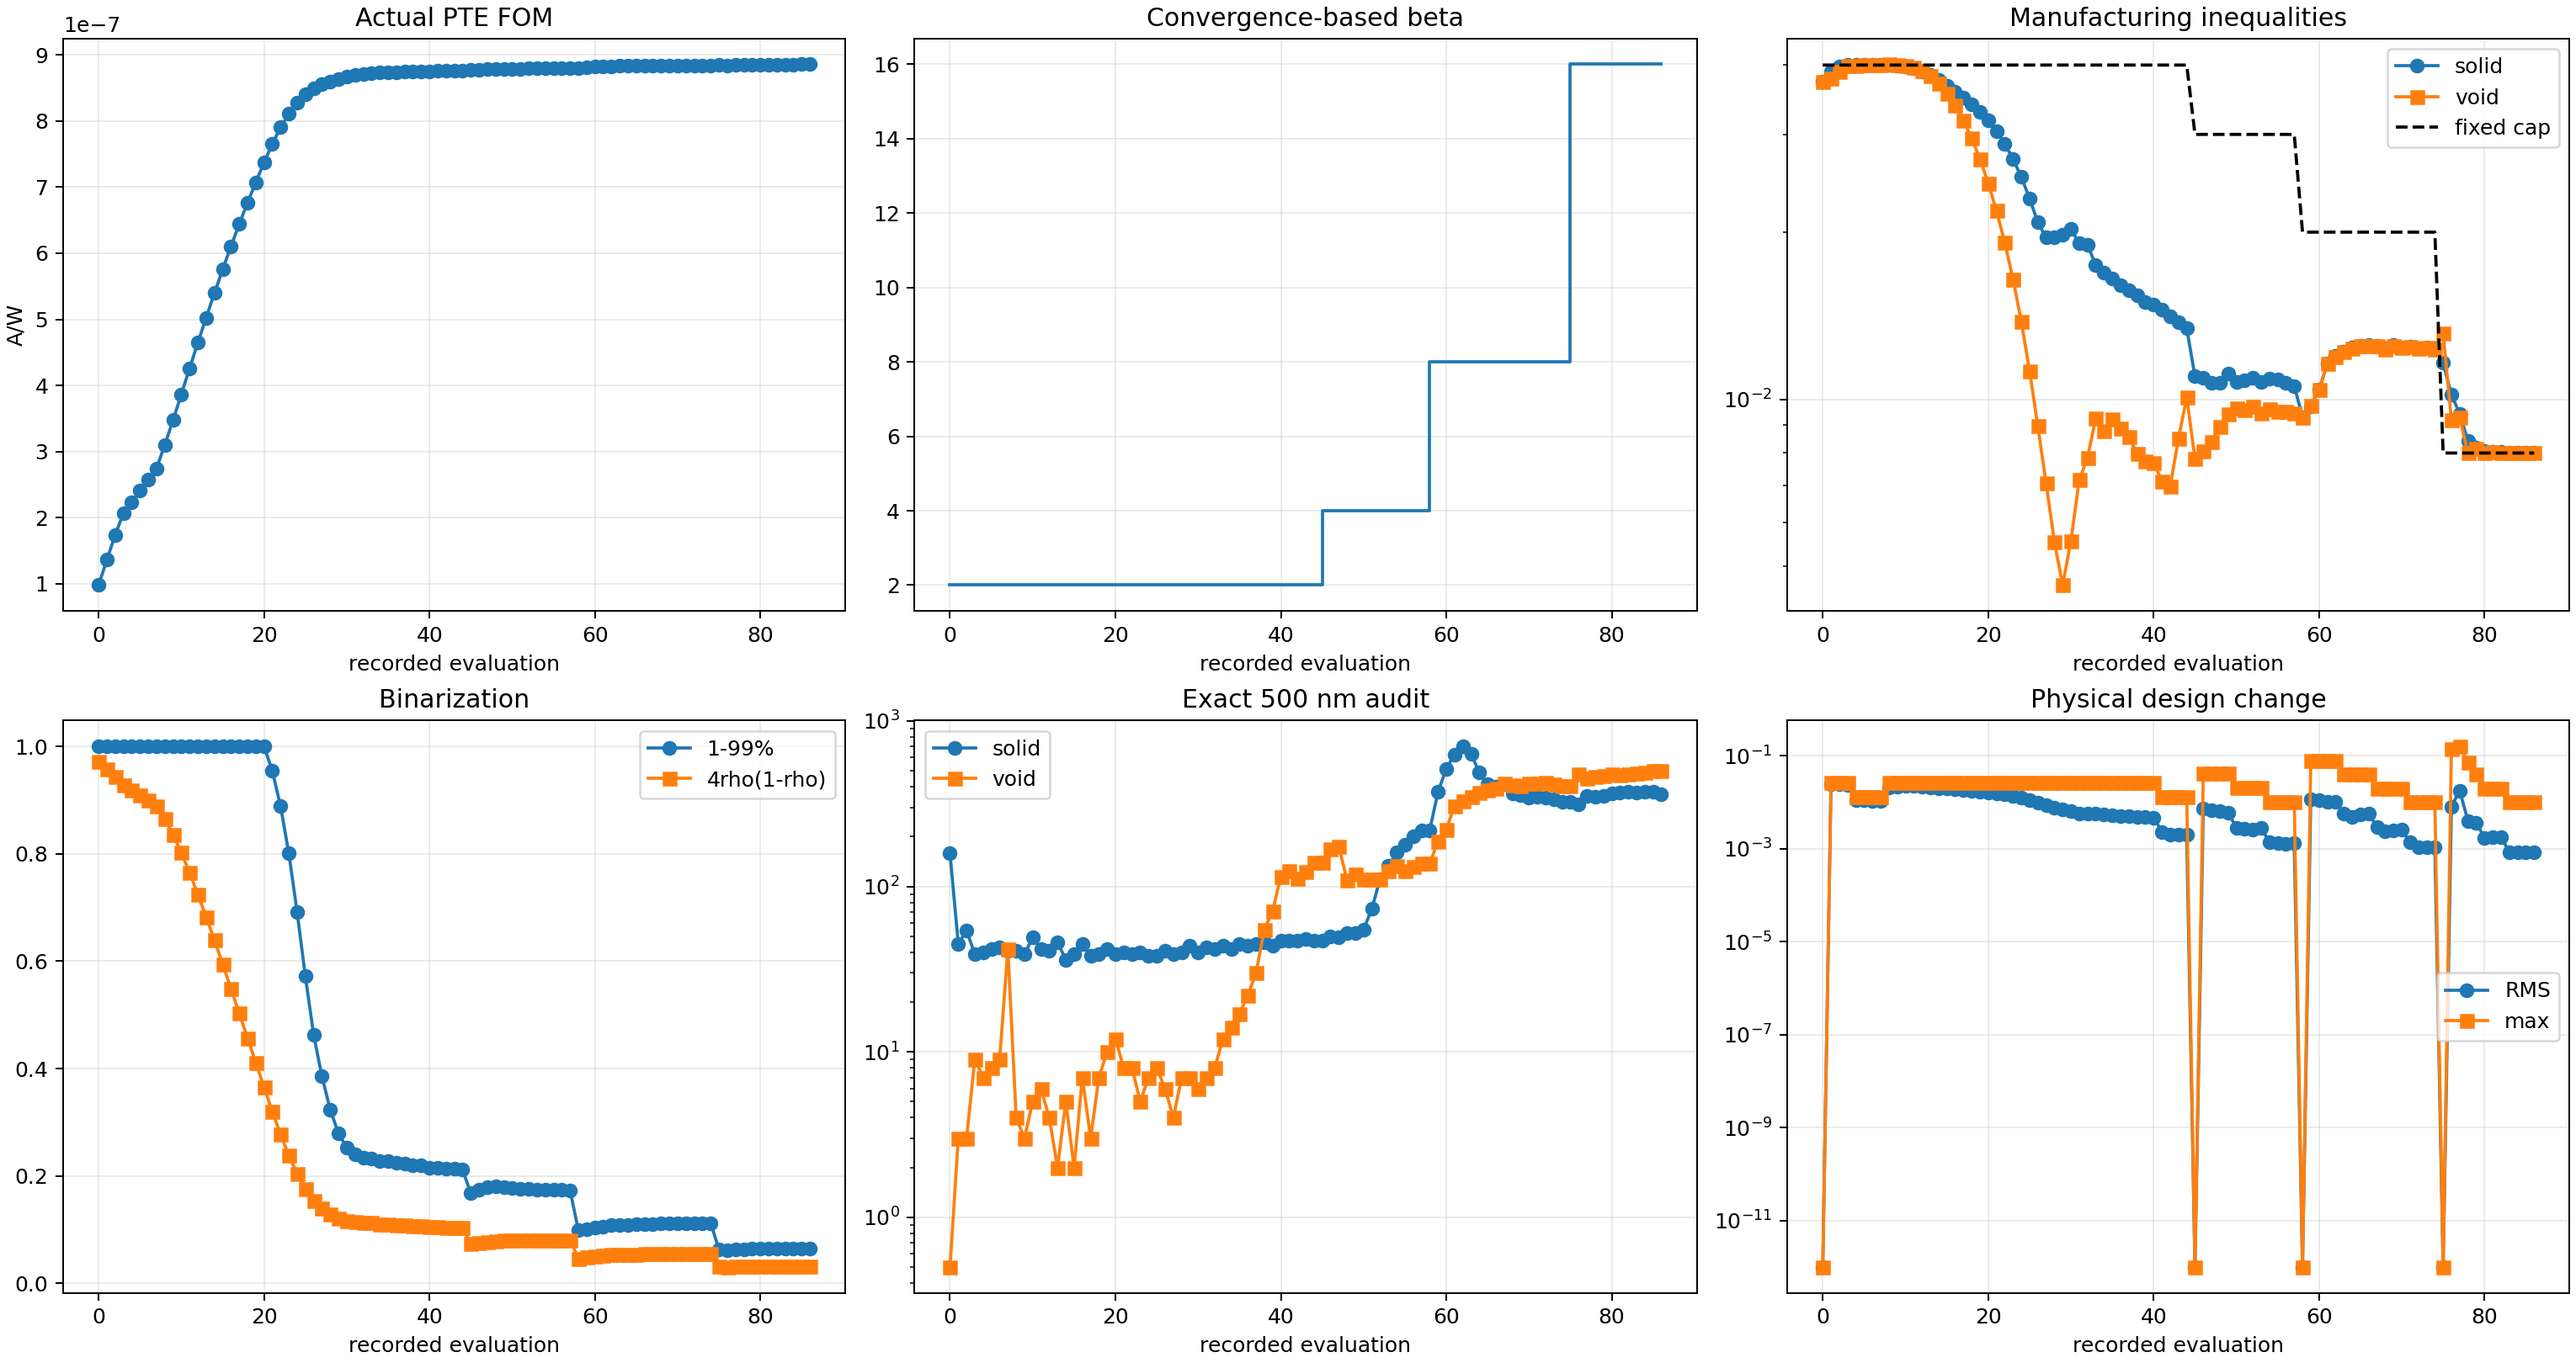
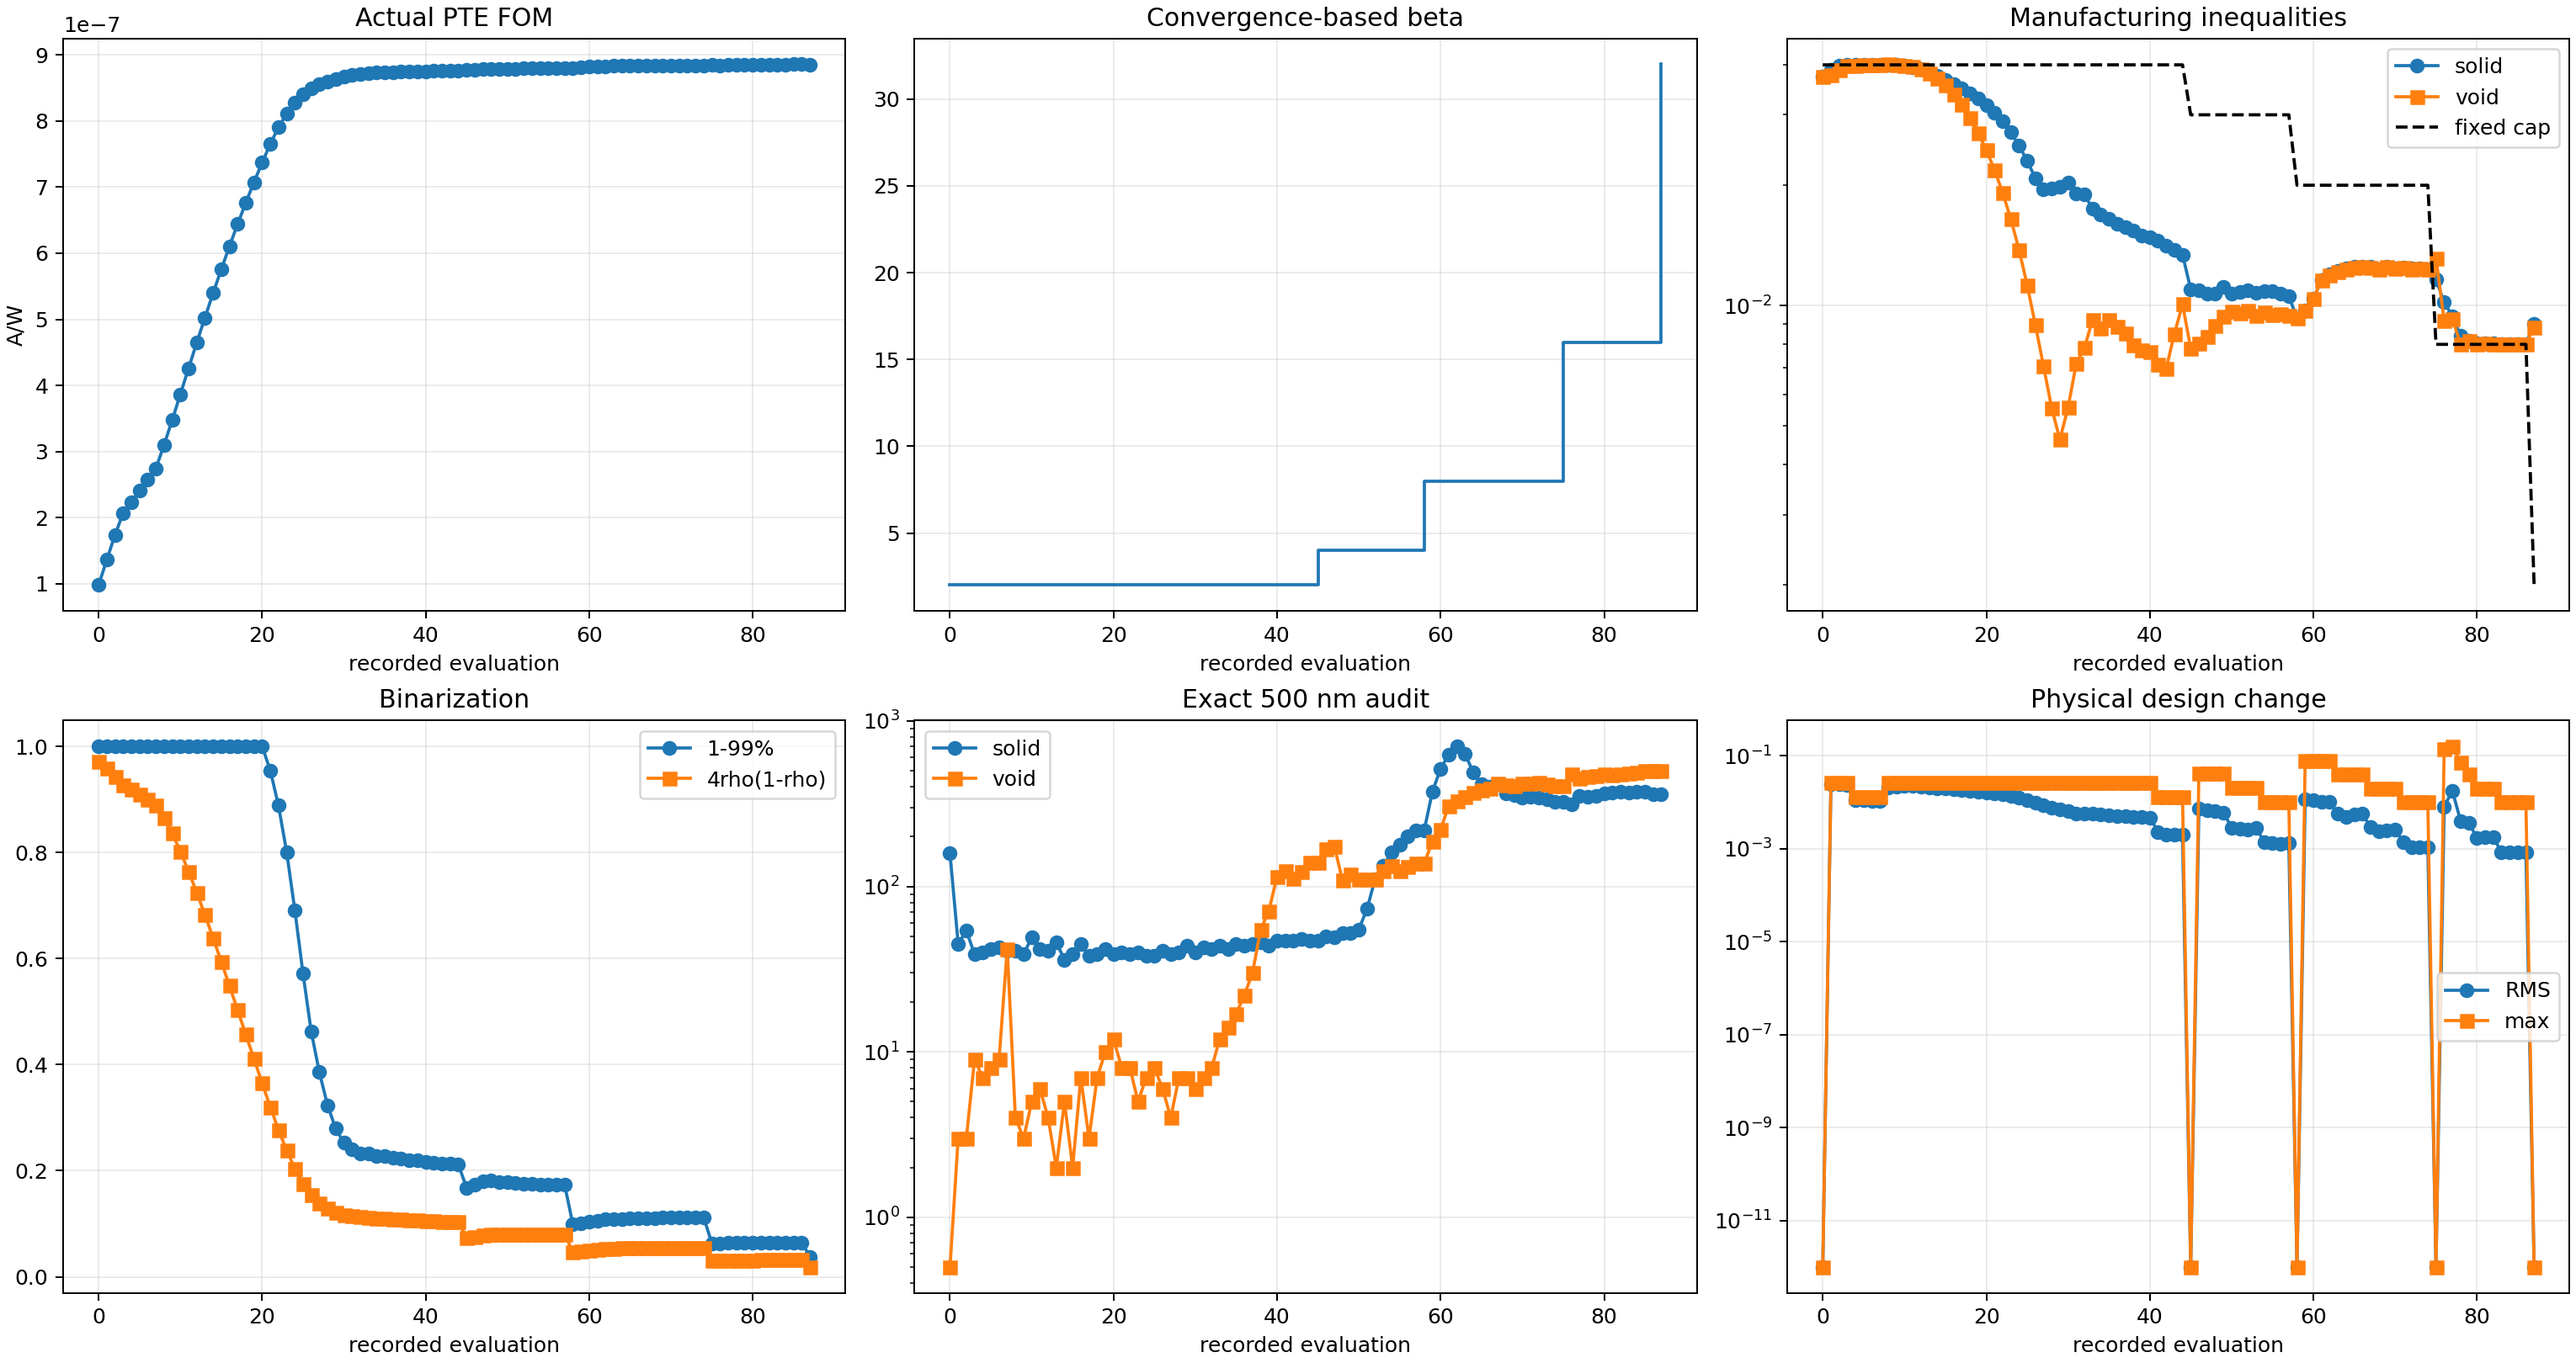
Record Run 003 run003_b032_s000_g083_stage_baseline

diff --git a/photothermal_pte/optimization_runs/run_003_gaussian10_w8p5_current_max_converged/results/OPTIMIZATION_REPORT.md b/photothermal_pte/optimization_runs/run_003_gaussian10_w8p5_current_max_converged/results/OPTIMIZATION_REPORT.md
@@ -2,10 +2,10 @@
 
 Status: `RUNNING_CONVERGENCE_BASED_CONSTRAINED_BETA_CONTINUATION`
 
-Current stage: beta=16, accepted stage iteration=11, global iteration=83.
+Current stage: beta=32, accepted stage iteration=0, global iteration=83.
 
-Actual FOM: `8.858801860481e-07 A/W`. Fixed-cap solid/void constraints: `8.002189e-03` / `8.007731e-03` with cap `8.000000e-03`.
+Actual FOM: `8.851886796770e-07 A/W`. Fixed-cap solid/void constraints: `9.010367e-03` / `8.838617e-03` with cap `2.000000e-03`.
 
-Exact 500 nm bad cells: solid `360`, void `501`. Stage convergence: `True` (all four-update FOM/density plateau gates pass).
+Exact 500 nm bad cells: solid `360`, void `501`. Stage convergence: `False` (need at least 8 accepted updates).
 
 Beta is promoted only after fixed-inequality feasibility and a four-update FOM/design plateau; it is never promoted after one nominal update.
